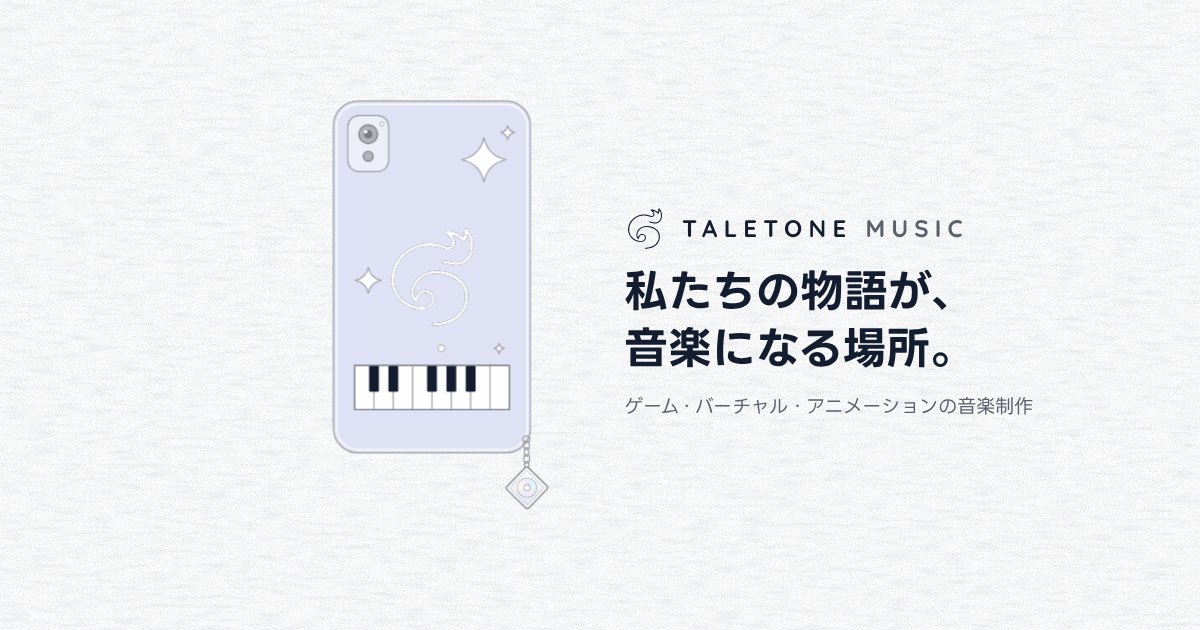
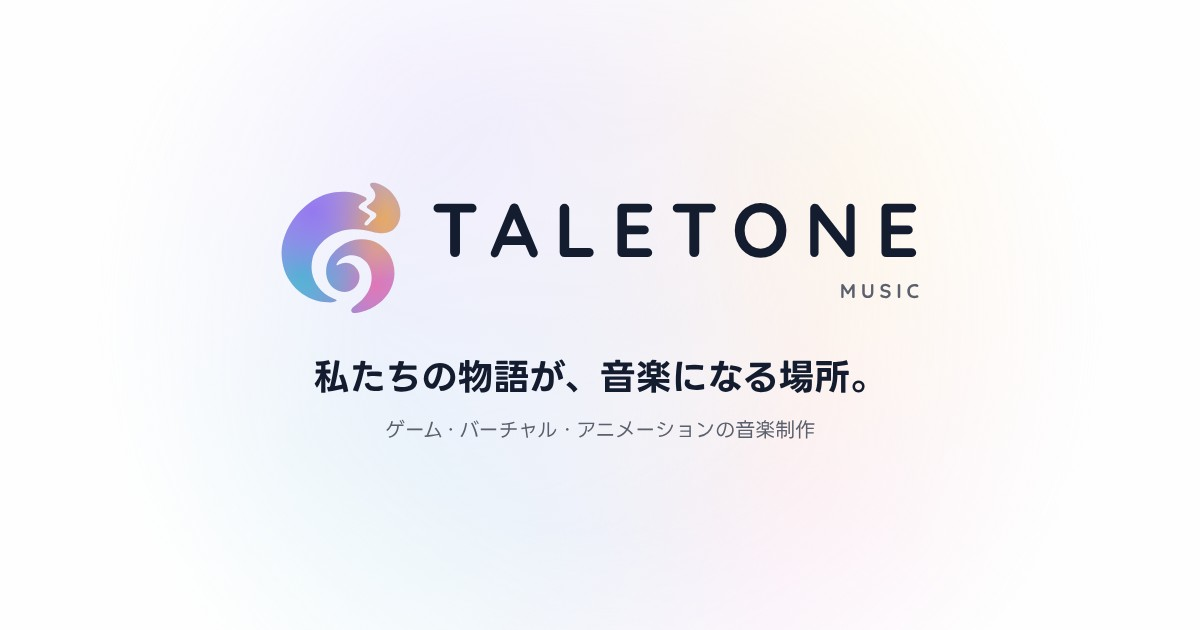
The mark in the brand's light, where each use reads best
Small and round places (the conversation's avatars, the chat room, the
favicon and the app icons) cut the mark out of the brand's light; beside
the name and on the link previews (rebuilt in all three languages) it is
filled with that light. The top bar keeps the plain mark, which has to
read on light and dark scenes alike.

Claude-Session: https://claude.ai/code/session_01AJvwZBWAURnH34gz3H81VZ

Changed region(s): [[0.2467, 0.3016, 0.8633, 0.8143], [0.2158, 0.1508, 0.4317, 0.5127], [0.37, 0.2111, 0.4317, 0.2714]]

diff --git a/src/journey/css/00-base.css b/src/journey/css/00-base.css
@@ -22,6 +22,9 @@
   --tt-display:Quicksand,"LINE Seed KR","LINE Seed JP",system-ui,sans-serif;
   --tt-spring:cubic-bezier(.34,1.4,.5,1);
   --tt-r-screen:6px; --tt-r-device:28px;
+  /* the brand's light (the halo behind the mark), as a fill; deep where it is small or the mark sits on it */
+  --tt-light:radial-gradient(circle at 26% 22%,#b7a3f7 0,rgba(183,163,247,0) 55%),radial-gradient(circle at 18% 70%,#7fd0e3 0,rgba(127,208,227,0) 50%),radial-gradient(circle at 80% 28%,#f6c98a 0,rgba(246,201,138,0) 46%),radial-gradient(circle at 78% 78%,#ee9fd0 0,rgba(238,159,208,0) 52%),radial-gradient(circle at 50% 96%,#9eb4f5 0,rgba(158,180,245,0) 46%),#c9c3f3;
+  --tt-light-deep:radial-gradient(circle at 26% 22%,#9479ee 0,rgba(148,121,238,0) 55%),radial-gradient(circle at 18% 70%,#4fb6d2 0,rgba(79,182,210,0) 50%),radial-gradient(circle at 80% 28%,#eeac57 0,rgba(238,172,87,0) 46%),radial-gradient(circle at 78% 78%,#e077b6 0,rgba(224,119,182,0) 52%),radial-gradient(circle at 50% 96%,#7590ec 0,rgba(117,144,236,0) 46%),#a99fec;
   color-scheme:light;
 }
 :lang(ja){--tt-sans:"LINE Seed JP","LINE Seed KR",system-ui,-apple-system,"Hiragino Sans",sans-serif}
@@ -42,8 +45,9 @@ img{max-width:100%}
 .jy-skip:focus{top:16px}
 
 /* ---------- shared pieces ---------- */
-.jy-av{flex:none;width:var(--av,40px);height:var(--av,40px);border-radius:50%;background:var(--tt-case);box-shadow:inset 0 0 0 1.5px var(--tt-silver),inset 0 0 0 3px var(--tt-canvas);display:grid;place-items:center}
-.jy-av img{width:48%;display:block}
+/* TALETONE's face in a conversation: the mark cut out of the light (as the profile and the app icon) */
+.jy-av{flex:none;width:var(--av,40px);height:var(--av,40px);border-radius:50%;background:var(--tt-light-deep);display:grid;place-items:center}
+.jy-av img{width:50%;display:block}
 .jy-signal{display:inline-flex;gap:4px}
 .jy-signal i{display:block;width:3px;height:16px;border-radius:999px;background:var(--tt-magenta)}
 .jy-signal i+i{background:var(--tt-cyan)}

diff --git a/src/journey/css/70-chat-room.css b/src/journey/css/70-chat-room.css
@@ -3,8 +3,8 @@
 .jy-stage-mode .jy-room{display:block;position:absolute;left:0;top:0;width:0;height:0;border-radius:28px;background:transparent;box-shadow:inset 0 0 0 1px rgba(159,161,166,.32);opacity:0;pointer-events:none;transition:opacity .45s,box-shadow .6s,height .5s var(--tt-spring),transform .5s var(--tt-spring)}
 .jy-stage-mode .jy-room.on{opacity:1}
 .jy-room-h{position:absolute;left:8px;right:8px;top:8px;display:flex;align-items:center;gap:10px;height:50px;padding:0 14px 0 8px;border-radius:999px;background:rgba(254,254,254,.7);-webkit-backdrop-filter:blur(10px);backdrop-filter:blur(10px)}
-.jy-room-av{display:grid;place-items:center;width:36px;height:36px;border-radius:50%;background:#fefefe;box-shadow:0 0 0 1px rgba(159,161,166,.35);flex:none}
-.jy-room-av img{width:22px;height:22px}
+.jy-room-av{display:grid;place-items:center;width:36px;height:36px;border-radius:50%;background:var(--tt-light-deep);flex:none}
+.jy-room-av img{width:18px}
 .jy-room-n{display:flex;flex-direction:column;min-width:0;line-height:1.3}
 .jy-room-n b{font-size:16px}
 .jy-room-n small{font-size:12px;color:var(--tt-ink-muted);white-space:nowrap;overflow:hidden;text-overflow:ellipsis}

diff --git a/src/journey/css/40-stage-pieces.css b/src/journey/css/40-stage-pieces.css
@@ -11,7 +11,7 @@
 .jy-stage-mode .jy-scrollhint{display:flex}
 /* the name on the first screen, over the words: whose site this is, at a glance */
 .jy-brand{display:flex;align-items:center;gap:12px;height:32px;line-height:32px;white-space:nowrap;margin:0 0 4px;font-family:var(--tt-display);font-weight:700;font-size:clamp(15px,1.3vw,19px);letter-spacing:.26em;color:var(--tt-ink)}
-.jy-brand img{width:30px;height:30px}
+.jy-brand-m{flex:none;width:28px;height:30px;background:var(--tt-light-deep);-webkit-mask:url(/assets/logo/logo-ink.svg) center/contain no-repeat;mask:url(/assets/logo/logo-ink.svg) center/contain no-repeat} /* the mark filled with the light, beside the name */
 .jy-brand b{font-weight:700;color:var(--tt-ink-muted)}
 /* on a phone the top bar is narrow: the name stays there on the first screen; after it, the chapter takes its place;
    on a wide screen the first screen shows the name itself, so the top bar's comes in after it */

diff --git a/ARCHITECTURE.md b/ARCHITECTURE.md
@@ -41,7 +41,7 @@ builds them; locally, `npm run build`.
 | `src/journey/css/` | The page's styles, in parts (below). |
 | `assets/works/` | Covers (`*-1024.webp`, small `*-w320.webp`) and sounds (`*.mp3`). |
 | `assets/phone/case-back.svg`, `case-stars.svg` | The back of the home phone: the designer's draft drawn as vectors (measured from it), 9:16, with the company's Outline mark (2px line); its stars alone, for the holographic sheen. |
-| `assets/logo/logo-ink.svg`, `logo-paper.svg` | The company mark, Filled (the default form), in ink and in paper colour. |
+| `assets/logo/logo-ink.svg`, `logo-paper.svg` | The company mark, Filled (the default form), in ink and in paper colour. Where it is small or round (the avatars, the app icons, the profile) it is cut out of the brand's light (`--tt-light`, `--tt-light-deep` in `00-base`); beside the name and on the link previews it is filled with that light; the top bar keeps the plain ink/paper mark. |
 | `assets/fonts/`, `assets/logo/`, `assets/icons/`, `assets/social/`, `assets/video/` | Fonts (LINE Seed KR, Quicksand), logo marks, app icons, link previews, the lock screen's film. |
 | `.github/scripts/validate-site.mjs` | Static checks of the built site (every page's tags, links, files, redirects, the works' rules). |
 | `.github/scripts/validate-runtime-performance.mjs` | Headless Chrome: every route × language × three screens, the whole story scrolled, a record played, the inquiry; load budgets. |
